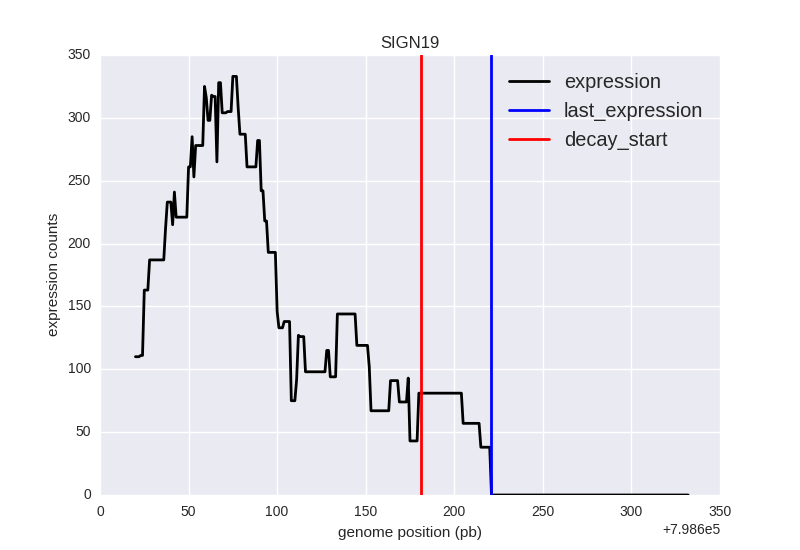
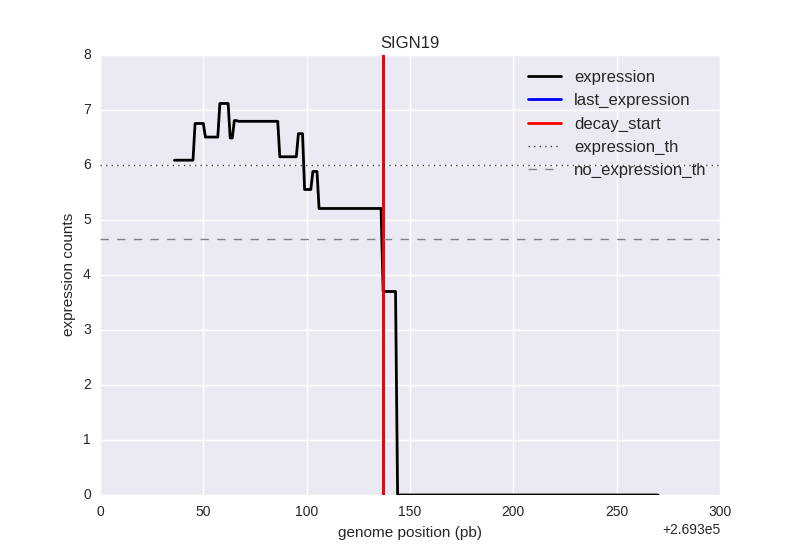
novel

diff --git a/finddrops.py b/finddrops.py
@@ -20,6 +20,7 @@ import sys, os
 import numpy as np
 import matplotlib.pyplot as plt
 import utils as u
+import seq_utils as sequ
 import seaborn
 
 #####################
@@ -64,6 +65,7 @@ def intergenic_mean(filename, header=True):
 
     return(sum_distan/float(number_ann))
 
+
 def decay_score(your_list, index, wooble=0.0):
     """
     Define the decay score for a list of numbers
@@ -90,7 +92,7 @@ def decay_score(your_list, index, wooble=0.0):
     can be considered as the first with positive expression but it comes from the oscllation of the profile.
     """
 
-    stdsc = np.std(your_list[:index+1])                    # +1 include last expression value
+    stdsc = np.std(your_list[:index+1])                 # +1 include last expression value
     first_derivative = np.diff(your_list[:index+2])     # +2 include first 0
     maxsc = min(first_derivative)
     dropsc = list(first_derivative)[index]
@@ -101,13 +103,16 @@ def decay_score(your_list, index, wooble=0.0):
     # 2. The maximum will correspond to the last position, we have to sum one to point to the
     # first nucleotide after which the expression only decreases
 
-    positive_indexes = [i for i, e in enumerate(first_derivative) if (e-wooble) > 0.0]
-    decay_start = max(positive_indexes)+1
+    try:
+        positive_indexes = [i for i, e in enumerate(first_derivative) if (e-wooble) >= 0.0]
+        decay_start = max(positive_indexes)+1
 
-    return([stdsc, maxsc, dropsc, decay_start])
+        return([stdsc, maxsc, dropsc, decay_start])
+    except:
+        return False
 
 
-def plot_drop(start, your_list, main_title, last_expression, decay_start):
+def plot_drop(start, your_list, main_title, last_expression, decay_start, horizontal1, horizontal2):
     """
     Plot the drop
         start = defines the first position for the x label
@@ -132,15 +137,17 @@ def plot_drop(start, your_list, main_title, last_expression, decay_start):
     ax1.plot(x, y, c='k', label='expression', linewidth=2)
     ax1.axvline(x=last_expression, c='b', label='last_expression', linewidth=2)
     ax1.axvline(x=decay_start, c='r', label='decay_start', linewidth=2)
+    ax1.axhline(y=horizontal1, c='0.25', linestyle=':', label='expression_th', linewidth=1)
+    ax1.axhline(y=horizontal2, c='0.5', linestyle='--', label='no_expression_th', linewidth=1)
 
-    leg = ax1.legend(fontsize='large')
+    leg = ax1.legend(fontsize='medium')
 
     plt.savefig('./results_finddrops/'+main_title+'.png')
 
     plt.close()
 
 
-def find_drops(annotation_file, expression_file, expression_index, expression_threshold=0.0, decay_variability = 0.0, expression_determinant=4, decay_window=200, header_ann=True, header_exp=True):
+def find_drops(annotation_file, expression_file, expression_index, expression_threshold=5, expression_determinant=4, decay_window=100, header_ann=True, header_exp=True, norm=True, decay_var = True, verbose = True):
     """
     Given a pile up file,
     returns the positions with potential termination signals
@@ -149,17 +156,26 @@ def find_drops(annotation_file, expression_file, expression_index, expression_th
     annotation_file:        file including the annotation of the genome (TSS and TTS), used to define the window of work
     expression_file:        non fractionates RNA Seq file
     expression_index:       index of the column with the expression values in the expression file
-    expression_threshold:   value in expression to consider a position non expressed
+    expression_threshold:   % of genes considered to set the expression/no expression thresholds
     expression_determinant: factor that divides the intergenic region to delimit the window
     decay_window:           window previous to the non expressed window considered
     header_ann:             boolean, define if the annotation file has headers or not
     header_exp:             boolean, define if the expression file has headers or not
+    norm:                   log2 normalization of the expression values
+    decay_var:              allow a certain variability to consider decays, based on the standard dev of the expression
+    verbose:                command line messages
     """
 
     # 1. First we have to define the mean distance between annotations to set up a correct
-    # window size to run the algorithm
+    # window size to run the algorithm and the expression values we consider
 
     intergenic_distance_mean = intergenic_mean(annotation_file)
+    expression_th, no_expression_th = sequ.no_expression_guesser(expression_threshold)
+    #expression_th, no_expression_th = 4.0, 1.0
+
+    if verbose:
+        print('Expression threshold in: '+str(expression_th))
+        print('No expression threshold in: '+str(no_expression_th))
 
     # 2. With this value we have the expected size of regions with expression equal 0.
     # The algorithm runs windows along the genome trying to detect these regions falling to 0 and looking a
@@ -171,20 +187,44 @@ def find_drops(annotation_file, expression_file, expression_index, expression_th
     no_exp_window  = int(round(intergenic_distance_mean/expression_determinant))
     sliding_window = int(round(decay_window + no_exp_window))
 
+    if verbose:
+        print('No expression window size: '+str(no_exp_window))
+        print('Total window size: '+str(sliding_window))
+
     # Load the expression profile and start the sliding window process
     # While processing, append the results to the dictionary of results
     results = {}
     expression = u.return_column(expression_file, expression_index)
 
+    # Normalize if selected
+    if norm:
+        expression = [np.log2(x+1) for x in expression]
+
+    # Variability in the expression allowed
+    if decay_var:
+        decay_variability = np.std(expression)
+        if verbose:
+            print('Expression variability: '+str(decay_variability))
+    else:
+        decay_variability = 0.0
+
+    # Windowing
     i = 0
     c = 1
+
+    if verbose:
+        print('Finding signals...')
 
     while i < len(expression)-sliding_window:
         # Define the window of work
         current_window = expression[i:i+sliding_window]
 
         # Only analyze the window if the expression drops below the threshold in the no_exp_window after a value with expression:
-        if current_window[:decay_window+1].count(expression_threshold) == 0.0 and current_window[decay_window-1] != 0 and np.mean(current_window[decay_window+1:]) <= expression_threshold:
+        # if current_window[:decay_window+1].count(expression_threshold) == 0.0 and current_window[decay_window-1] != 0 and np.mean(current_window[decay_window+1:]) <= expression_threshold:
+        # if all(i >= expression_th for i in current_window[:decay_window+1]) and all(i <= no_expression_th for i in current_window[decay_window+1:]):
+        # if np.mean(current_window[:decay_window+1]) >= expression_th and current_window[decay_window-1] > expression_th and all(i <= no_expression_th for i in current_window[decay_window+1:]):
+        # if np.mean(current_window[:decay_window+1]) >= no_expression_th and current_window[decay_window-1] >= no_expression_th and all(i <= no_expression_th for i in current_window[decay_window+1:]):
+        if all(i > no_expression_th for i in current_window[:decay_window+1]) and current_window[0] >= expression_th and all(i < no_expression_th for i in current_window[decay_window+1:]):
             stdsc, maxsc, dropsc, decaysc = decay_score(current_window, decay_window, decay_variability)
             identifier = 'SIGN'+str(c)
             last_expression = i+decay_window+1
@@ -193,7 +233,7 @@ def find_drops(annotation_file, expression_file, expression_index, expression_th
             c += 1
 
             # Plot the drop
-            plot_drop(i, current_window, identifier, last_expression, decay_start)
+            plot_drop(i, current_window, identifier, last_expression, decay_start, expression_th, no_expression_th)
         i+=1
 
     # Write the file with the results:
@@ -217,5 +257,6 @@ def find_drops(annotation_file, expression_file, expression_index, expression_th
 #####################
 
 if __name__ == "__main__":
-#    find_drops(annotation_file='./datasets/toyset_annotations.txt', expression_file='./datasets/toyset.txt', expression_index=1, header_exp=False)
-    find_drops(annotation_file='../mycorepo/plusTSSTTS.csv', expression_file='./datasets/dsspilesmpn.txt', expression_index=2, decay_variability=10.0, expression_determinant=12)
+#   find_drops(annotation_file='./datasets/toyset_annotations.txt', expression_file='./datasets/toyset.txt', expression_index=1, header_exp=False)
+
+    find_drops(annotation_file='../mycorepo/plusTSSTTS.csv', expression_file='./datasets/dsspilesmpn.txt', expression_index=2, expression_threshold=10, expression_determinant=10, decay_var=False)

diff --git a/seq_utils.py b/seq_utils.py
@@ -17,18 +17,89 @@
 #####################
 
 import sys, os
+import glob
+import re
+import utils as u
+import pandas as pd
+import numpy as np
+
 
 #####################
 # GENERAL FUNCTIONS #
 #####################
 
-def quantile_norm(expression_list):
+# BASIC SEQUENCE FUNCTIONS
+
+def change_base(i, base=816394):
     """
-    Given a list,
-    returns that list normalized by quantiles after performing a log2 normalization
+    Basic function to pass from + to - strand
+
+    1   --> 816394
+    300 --> 816094
     """
 
-def merge_expression_experiments(directory, quant=True):
+    return (base+1)-i
+
+
+# TRANSCRIPTOMIC DATA LOADING AND INTEGRATION
+
+def pseudo_log2(i):
+    return np.log2(i+1)
+
+
+def load_expression(fil, sep='\t', header=0):
+    """
+    Given a expression file with two columns, one per strand
+    Returns a dataframe of it
+
+    This function also:
+    - log2
+    - corrects the assignment of the strand considering the rRNA expression
+    """
+
+    # Load
+    df = pd.read_csv(fil, sep=sep, header=header)
+
+    # Position column to rownames and remove it (also removes a unnamed column)
+    df.set_index(df[df.columns[0]], inplace=True)
+    try:
+        df.drop(df.columns[[3]], axis=1, inplace=True)
+    except:
+        pass
+    df.drop(df.columns[[0]], axis=1, inplace=True)
+
+    # Extract a identifier
+    # sample_name = fil.rsplit('/')[-1].rsplit('_',1)[:-1][0]
+    sample_name = fil.rsplit('/')[-1].replace('.pile', '')
+
+    # Check rRNA expression and interchange columns if necessary
+    # Independently of plus/minus, add a identifier to the colname
+    if np.mean(df.iloc[120000:123000,0]) < np.mean(df.iloc[120000:123000,1]):
+        # The greater mean is the plus strand
+        df.columns = ['minus_'+sample_name, 'plus_'+sample_name]
+    else:
+        df.columns = ['plus_'+sample_name, 'minus_'+sample_name]
+
+    # Log2 transformation
+    df = df.apply(pseudo_log2)
+
+    return df
+
+
+def normalization(df, positive=True):
+    """
+    Given a df,
+    returns the df normalized
+    """
+
+    if positive:
+        df_norm = (df - df.min()) / (df.max() - df.min())
+    else:
+        df_norm = (df - df.mean()) / (df.max() - df.min())
+    return df_norm
+
+
+def merge_expression_experiments(directory, norm=True):
     """
     Given a directory with n pile files
     generates a matrix file with
@@ -38,7 +109,61 @@ def merge_expression_experiments(directory, quant=True):
     The expression is passed to log2 and normalized by quantiles (this last can be prevented by arguments)
     """
 
+    # List all the files in a directory if they are piles
+    files = glob.glob(directory+'*.pile')
 
+    # Load the data iteratively and merge all of them
+
+    first = True
+
+    for fil in files:
+        if first:
+            expression = load_expression(fil)
+            first = False
+        else:
+            expression = expression.append(load_expression(fil))
+
+    # Normalize
+    if norm:
+        expression = normalization(expression)
+
+    return expression
+
+
+# GENOME EXPRESSION INFORMATION
+
+def no_expression_guesser(percentage=5):
+    """
+    Define which is the expected value to consider the expression is dropped
+
+    To compute it, this takes the mean expression value for codifying regions
+    and returns the mean + 1Standard Deviation
+    """
+
+    #1. Load data and prepare a dictionary
+    files = ['/home/smiravet/crg/mycorepo/minusTSSTTS.csv', '/home/smiravet/crg/mycorepo/plusTSSTTS.csv']
+    expression = load_expression('./datasets/dsspilesmpn.txt')
+    meanstd = {}
+
+    #2. Assign mean and standard deviation to all the annotations
+    for i in [0,1]:
+        with open(files[i], 'r') as fi:
+            for line in fi:
+                genename, start, end = line.strip().split()
+                start, end = int(start), int(end)
+                if re.match('^[A-Z]{3}[0-9]{3}$', genename):
+                    meanstd[genename] = [np.mean(expression.iloc[start:end,i]), np.std(expression.iloc[start:end,i])]
+
+    #3. Isolate N% most expressed genes, sort the dictionary and extract
+    # the value mean-1SD for the lowest expressed in that group:
+    number_genes = int(round((len(meanstd)*percentage)/100.0))
+    top_genes = sorted(meanstd.items(), key=lambda i: i[1][0], reverse=True)[:number_genes]
+    lowestinhighest = top_genes[-1]
+
+    no_expression_1SD = lowestinhighest[1][0]-lowestinhighest[1][1]
+    no_expression_2SD = lowestinhighest[1][0]-(lowestinhighest[1][1]*2)
+
+    return no_expression_1SD, no_expression_2SD
 
 #####################
 #      CLASSES      #
@@ -50,4 +175,6 @@ def merge_expression_experiments(directory, quant=True):
 #####################
 
 if __name__ == "__main__":
+    print(no_expression_guesser(10))
+    # merge_expression_experiments('/home/smiravet/Dropbox/mycorepo/systems_biology/Transcriptome/Rawdata/')
 

diff --git a/clustering.py b/clustering.py
@@ -27,6 +27,13 @@ from Bio.Seq import Seq
 from Bio.Alphabet import generic_dna
 from Bio.SeqRecord import SeqRecord
 
+
+# used in hierarchical clustering
+
+from matplotlib import pyplot as plt
+from scipy.cluster.hierarchy import dendogram, linkage
+import numpy as np
+
 #####################
 # GENERAL FUNCTIONS #
 #####################
@@ -95,9 +102,16 @@ def kmeans(data, k):
         identifiers = identifiers[i:]
     return groups
 
+
+def hierar(data):
+
+
+
+
 #####################
 #      CLASSES      #
 #####################
+
 
 
 

diff --git a/README.md b/README.md
@@ -66,7 +66,7 @@ And this result in the dictionary:
 
 **Sharp drop**
 
-![sharp toy](figures/sharptoy.png)
+![sharp toy](figures/sharpto.png)
 
 And this result in the dictionary:
 
